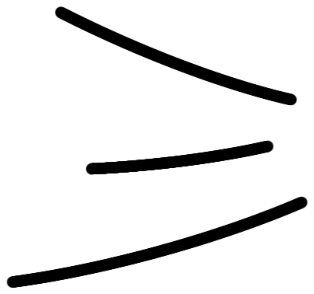
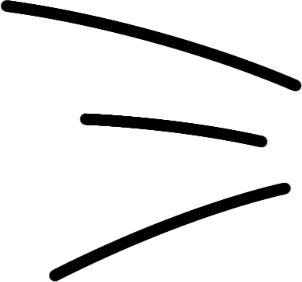
filtre chat correction orientation

Changed region(s): [[0.0, 0.0, 1.0, 0.3688], [0.0, 0.6241, 0.9834, 1.0], [0.2682, 0.3972, 0.894, 0.5957]]

diff --git a/public/people-camera-effects.js b/public/people-camera-effects.js
@@ -11,11 +11,11 @@
   // Dessins du filtre Chat fournis pour People. Chaque élément reste séparé
   // afin de suivre correctement la rotation et la taille du visage.
   const CAT_ASSET_URLS = Object.freeze({
-    leftEar: "assets/people-facefx/cat/ear-left.png",
-    rightEar: "assets/people-facefx/cat/ear-right.png",
-    leftWhiskers: "assets/people-facefx/cat/whiskers-left.png",
-    rightWhiskers: "assets/people-facefx/cat/whiskers-right.png",
-    nose: "assets/people-facefx/cat/nose.png"
+    leftEar: "assets/people-facefx/cat/ear-left.png?v=people-cat-fix-v2-20260911a",
+    rightEar: "assets/people-facefx/cat/ear-right.png?v=people-cat-fix-v2-20260911a",
+    leftWhiskers: "assets/people-facefx/cat/whiskers-left.png?v=people-cat-fix-v2-20260911a",
+    rightWhiskers: "assets/people-facefx/cat/whiskers-right.png?v=people-cat-fix-v2-20260911a",
+    nose: "assets/people-facefx/cat/nose.png?v=people-cat-fix-v2-20260911a"
   });
 
   const EFFECTS = Object.freeze([
@@ -437,7 +437,6 @@
   function drawCat(face) {
     if (catAssetsState !== "ready") {
       if (catAssetsState === "idle") void ensureCatAssets();
-      drawCatFallback(face);
       return;
     }
 

diff --git a/public/people-settings.js b/public/people-settings.js
@@ -42,19 +42,19 @@
       id: "soft",
       name: "Doux",
       description:
-        "Une notification plus discrète."
+        "Une notification plus douce."
     },
     {
       id: "digital",
       name: "Digital",
       description:
-        "Court et plus électronique."
+        "Une notification vibe retro comme on aime."
     },
     {
       id: "pop",
       name: "Pop",
       description:
-        "Petit son rapide et lumineux."
+        "Une notification plus petite, rapide et lumineuse."
     }
   ];
 
@@ -75,19 +75,19 @@
       id: "retro",
       name: "Rétro",
       description:
-        "Un style téléphone numérique."
+        "Une sonnerie de vieille console."
     },
     {
       id: "calm",
       name: "Calme",
       description:
-        "Plus douce et moins agressive."
+        "Une sonnerie plus douce et moins agressive."
     },
     {
       id: "bright",
       name: "Claire",
       description:
-        "Une sonnerie plus aiguë."
+        "Une sonnerie plus discrète."
     }
   ];
 

diff --git a/public/index.html b/public/index.html
@@ -639,7 +639,7 @@
   <script src="people-avatars.js"></script>
   <script src="people-rich-content.js"></script>
   <script src="people-message-actions.js"></script>
-  <script src="people-camera-effects.js?v=people-facefx-cat-friend-v1-20260911a"></script>
+  <script src="people-camera-effects.js?v=people-cat-fix-v2-20260911a"></script>
   <script src="app.js?v=people-camera-device-v1-20260911a"></script>
   <script src="people-avatar-cropper.js"></script>
   <script src="people-avatar-ultra.js"></script>
